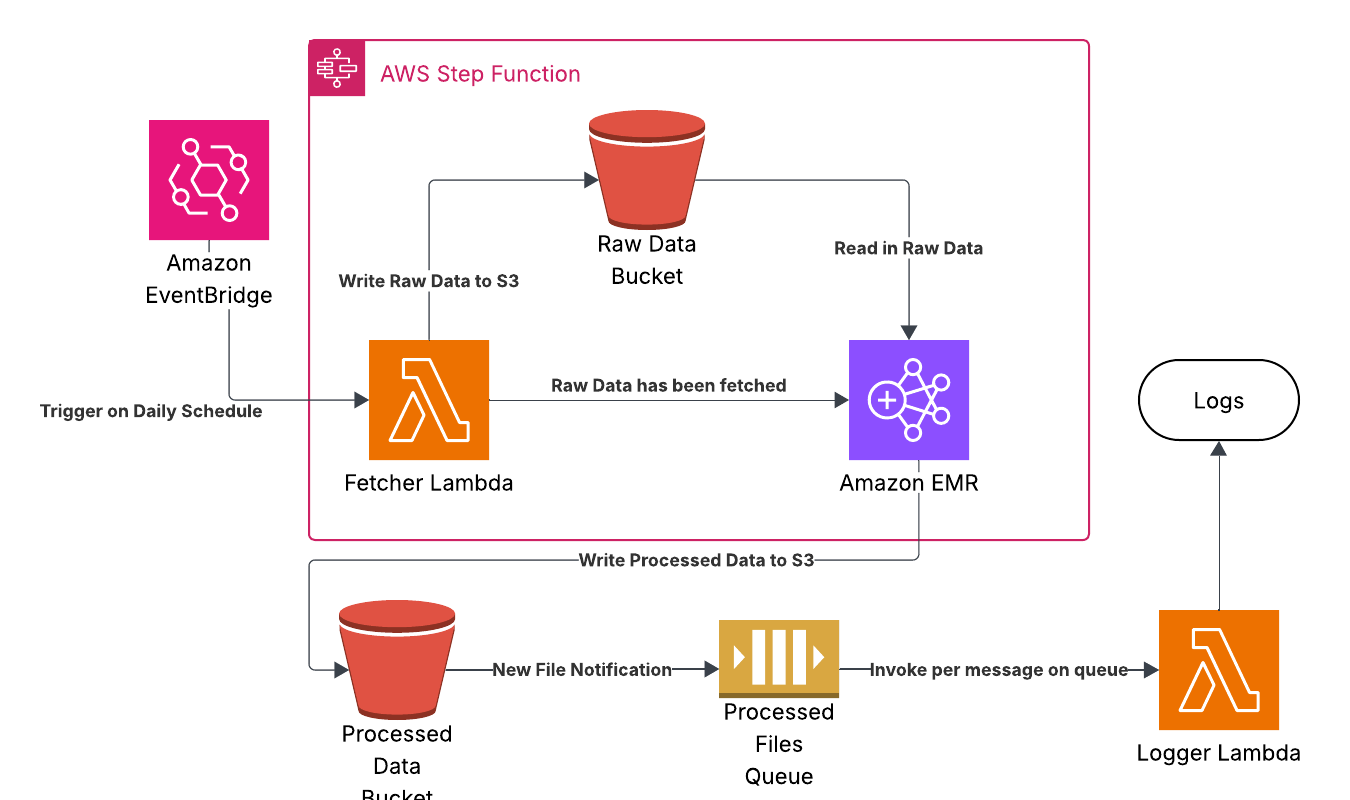
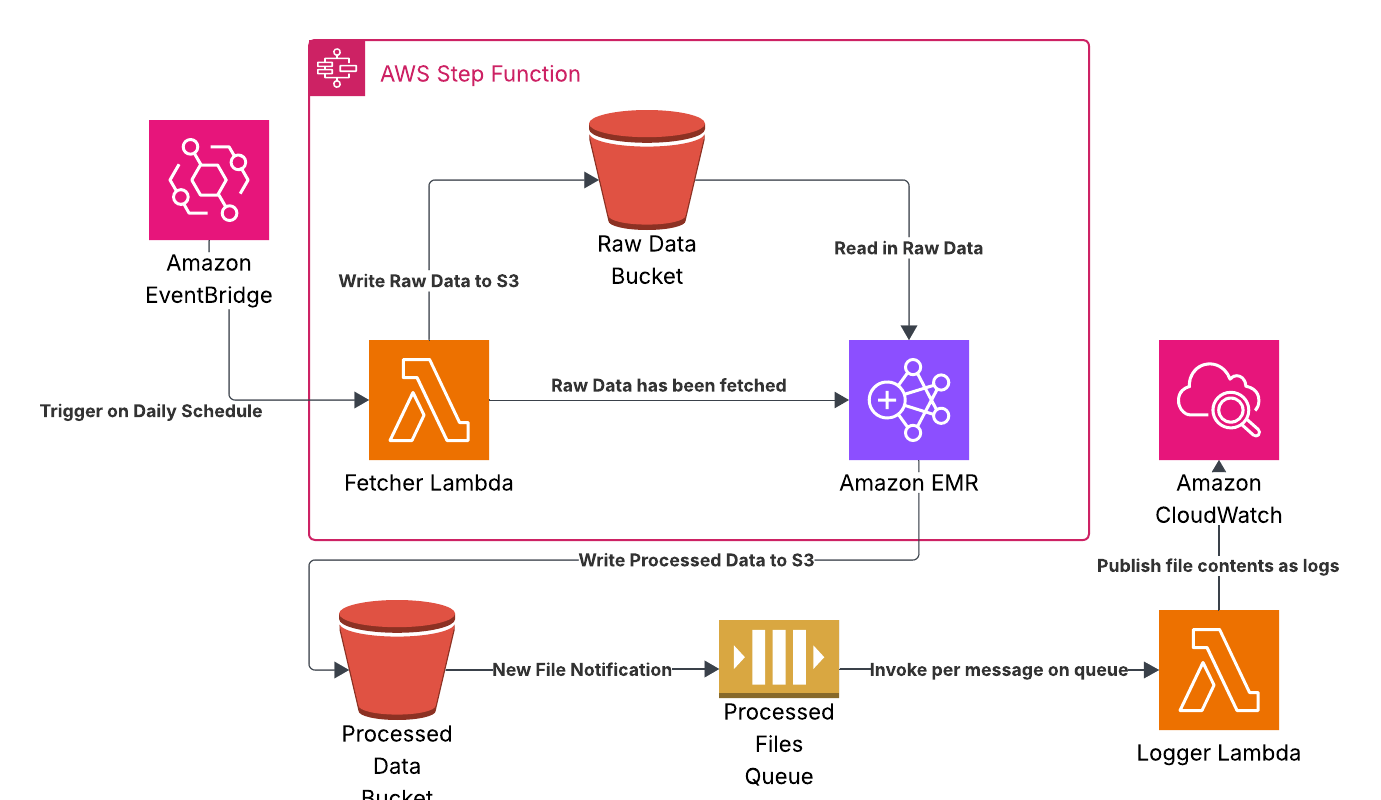
Documentation (#14)
* Check in README.md and Architecture diagram

* Adding comments

diff --git a/lambdas/src/file_downloader.py b/lambdas/src/file_downloader.py
@@ -24,10 +24,10 @@ def download_bls_data(directory_url: str, local_folder: str) -> int:
     """
     logging.info(f"Starting download from: {directory_url}")
 
-    # 1. Create the local directory if it doesn't exist
+    # Create the local directory if it doesn't exist
     os.makedirs(local_folder, exist_ok=True)
 
-    # 2. Fetch and parse the directory HTML
+    # Fetch and parse the directory HTML
     try:
         response = requests.get(directory_url, timeout=30, headers=headers)
         response.raise_for_status()  # Raise an exception for 4xx or 5xx status codes
@@ -39,7 +39,7 @@ def download_bls_data(directory_url: str, local_folder: str) -> int:
     file_links = []
     base_netloc = urlparse(directory_url).netloc
     
-    # 3. Extract file links
+    # Extract file links
     for link in soup.find_all('a'):
         href = link.get('href')
         
@@ -59,7 +59,7 @@ def download_bls_data(directory_url: str, local_folder: str) -> int:
 
     logging.info(f"Found {len(file_links)} files. Starting download...")
     
-    # 4. Download all files using multithreading for efficiency
+    # Download all files using multithreading for efficiency
     with ThreadPoolExecutor(max_workers=5) as executor:
         futures = [executor.submit(download_single_file, url, local_folder) for url in file_links]
         
@@ -70,7 +70,15 @@ def download_bls_data(directory_url: str, local_folder: str) -> int:
     return len(file_links)
 
 def download_single_file(file_url, local_dir, params: dict = {}, override_filename: str | None = None):
-    """Internal function to download a single file with streaming."""
+    """
+    Internal function to download a single file with streaming.
+
+    :param file_url The URL of the file to download
+    :param local_dir The path to the directory to store the file in
+    :params params Any query parameters used in the fetch request for the file
+    :params override_filename Optional value for if the caller wants to specify a name for the file
+    :return The path to the file on the local filesystem
+    """
     try:
         # Get filename from the URL path
         if not override_filename:
@@ -106,8 +114,9 @@ def download_population_data(url: str, local_folder: str, params: dict) -> int:
     :param local_folder: The local directory to save the files to.
     :return the count of population files downloaded (should be 1)
     """
-    # 1. Create the local directory if it doesn't exist
+    # Create the local directory if it doesn't exist
     os.makedirs(local_folder, exist_ok=True)
+    
     try:
         download_single_file(file_url=url,local_dir=local_folder, params=params, override_filename='population.json')
         logging.info(f"--- Download complete! File saved in: {os.path.abspath(local_folder)} ---\n")

diff --git a/lambdas/src/s3_utils.py b/lambdas/src/s3_utils.py
@@ -96,7 +96,7 @@ def synchronize_with_s3(source_dir, bucket_name, region='us-east-1'):
         logging.warning("No files found locally or in S3. Exiting sync.")
         return updated_or_added_count, deleted_count
 
-    # 1. Determine files to upload (Additions or Modifications)
+    # Determine files to upload (Additions or Modifications)
     files_to_upload = []
     for s3_key, local_md5 in local_manifest.items():
         # A file is new if its key is not in the S3 manifest
@@ -107,7 +107,7 @@ def synchronize_with_s3(source_dir, bucket_name, region='us-east-1'):
             logging.debug(f"{status}: {s3_key}")
         # Else: MD5 matches ETag, file is in sync, skip (efficiency achieved)
 
-    # 2. Determine objects to delete (Local Deletions)
+    # Determine objects to delete (Local Deletions)
     files_to_delete = []
     for s3_key in s3_manifest.keys():
         # An object needs deletion if its key is in S3 but not in the local manifest
@@ -116,9 +116,7 @@ def synchronize_with_s3(source_dir, bucket_name, region='us-east-1'):
             logging.debug(f"DELETED: {s3_key}")
 
 
-    # --- EXECUTE ACTIONS ---
-
-    # A. Execute Uploads/Updates
+    # Perform Uploads/Updates
     if files_to_upload:
         logging.info(f"--- UPLOADING/UPDATING {len(files_to_upload)} files ---")
         for s3_key in files_to_upload:
@@ -136,7 +134,7 @@ def synchronize_with_s3(source_dir, bucket_name, region='us-east-1'):
     else:
         logging.info("No local files detected as new or modified. Skipping uploads.")
         
-    # B. Execute Deletions
+    # Perform Deletions
     if files_to_delete:
         logging.info(f"--- DELETING {len(files_to_delete)} objects ---")
         

diff --git a/lambdas/src/rearc_fetcher.py b/lambdas/src/rearc_fetcher.py
@@ -6,9 +6,6 @@ from file_downloader import download_bls_data, download_population_data # to run
 # Set up logging for detailed output
 logging.basicConfig(level=logging.INFO, format='%(asctime)s - %(levelname)s - %(message)s')
 
-def sanitize_data() -> str:
-    return 'sanitized'
-
 def lambda_handler(event, context):
     """
     Retrieves a file from a specified URL and uploads it to an S3 bucket.
@@ -30,20 +27,20 @@ def lambda_handler(event, context):
     }
 
     try:
-        # 1. Retrieve the BLS files
+        # Retrieve the BLS files
         bls_downloaded_count = download_bls_data(directory_url=bls_dir_url, local_folder='/tmp/bls-data')
 
-        # 2. Retrieve the population data json file
+        # Retrieve the population data json file
         population_data_count = download_population_data(url=population_url, local_folder = '/tmp/population', params=population_params)
 
-        # 3. Synchronize BLS Data with S3
+        # Synchronize BLS Data with S3
         if bls_downloaded_count > 0:
             bls_files_updated_or_added, bls_files_deleted = synchronize_with_s3('/tmp/bls-data', s3_bucket_name)
         else:
             logging.error('0 BLS Files were downloaded, cannot perform synchroniziation with s3 bucket')
             raise Exception('0 BLS Files were downloaded, cannot perform synchroniziation with s3 bucket')
 
-        # 4. Synchronize Population Data with S3
+        # Synchronize Population Data with S3
         if population_data_count > 0:
             population_updated_or_added, population_deleted = synchronize_with_s3('/tmp/population', s3_bucket_name)
         else:

diff --git a/lambdas/src/test_rearc_fetcher.py b/lambdas/src/test_rearc_fetcher.py
@@ -1,5 +1,7 @@
 import pytest
-from rearc_fetcher import sanitize_data
 
-def test_sanitize():
-    assert sanitize_data() == "sanitized"
+
+# TODO Add Tests for Fetcher Lambda
+
+def test_lambda():
+    assert True

diff --git a/lambdas/src/test_file_downloader.py b/lambdas/src/test_file_downloader.py
@@ -1,0 +1,6 @@
+import pytest
+
+# TODO Add tests for File Downloader
+
+def test_file_downloader():
+    assert True

diff --git a/lambdas/src/test_rearc_logger.py b/lambdas/src/test_rearc_logger.py
@@ -1,2 +1,6 @@
 import pytest
 
+# TODO Add Logger Tests
+
+def test_lambda():
+    assert True

diff --git a/lambdas/src/test_s3_utils.py b/lambdas/src/test_s3_utils.py
@@ -1,0 +1,4 @@
+import pytest
+
+def test_s3_utils():
+    assert True

diff --git a/README.md b/README.md
@@ -1,10 +1,36 @@
 # Rearc Data Quest
 
-## Introduction
+## Overview
+Here lies the implementation for the Rearc Data Quest Project. The instructions were simple, to fetch two different datasets on a daily basis (Extract), synchronize the datasets with data in S3, perform some tranformations on the data (Transform), and write three datasets to a results S3 Bucket. The result datasets are processed on an SQS Queue and their contents are then logged out.
 
 ## Goals
+The goal of this project are to showcase my skills in data engineering by implementing a full end-to-end data pipeline, deployed in the cloud. 
 
-## How to run
+## Architecture
+The architecture for this project starts here in the Github Repository. Here is where we manage our source code, gate deploys with tests, and manage and deploy our Infrastructure as Code (Terraform). The terraform code for this project resides in the `cicd/terraform` folder and is seperated by AWS product.
+
+### AWS Cloud Architecture
+The AWS architecture is managed fully using Terraform. This involves an EventBridge Scheduler that calls a Step Function on a daily basis at 08:00. The Step Function while not required for the exercise is meant to show how this framework could be scaled to include more tasks in its data orchestration. For now, it has two steps. 
+
+The first task is to invoke the Fetcher Lambda. The Fetcher downloads files from a Bureau of Labor Statistics repository and population data from a public API. These files are then synchronized with a raw data bucket in S3, only updating or adding files if necesary. The synchronization is performed by taking an MD5 hash of the fetched files and comparing them to the ETag of the files in S3 to verify if they have changed. Once the raw data files have been written to the raw data bucket, the next task in our Step Function is to perform transformations on the raw data to build the three required result datasets and writes them to our processed data bucket as JSON. At this point the batched processing nature of our architecture is complete and we move on to a more event based architecture. 
+
+The event based architecture is performed by attaching an S3 Bucket notification to our processed data that publishes to an SQS Queue. Each file written to the processed data bucket gets one message on the queue and its message on the queue triggers one invocation of the Logger Lambda. The Logger Lambda consumes the SQS Message containing S3 details about the file, reads in the file and logs out the data to CloudWatch.
+
+![AWS Cloud Architecure](./Rearc%20Data%20Quest%20Architecture.png)
+
+#### Github Actions Architecture
+Our Github actions are designed to be a simple representation of how a production project might look and run. It involves gating releases based on conditions, in this case being the passing of unit tests. Our actions pipeline also handles the deployment of Terraform for our AWS Architecture. On pull requests a "plan only" run is triggered via Hashicorp's API. On commits to `main` a Terraform "plan and apply" is triggered via Hashicorps API that requires manually running apply to actually create, destroy, or update our AWS architecture. Feel free to view the YAML files in .github/workflows to see how this works.
 
 ## Testing
+This project uses automated testing ran via GitHub Actions that gates deploys and informs creators of pull requests if their changes violate any test conditions. Ordinarily, I would strive for near 100% test coverage but in the interest of time I have decided to leave it out. I have included basic test stubs and included them in the Github Actions pipeline to display how they would work if implemented.
 
+#### Testing Scala Spark Job
+*NOTE: Scala and Spark must be preinstalled*
+Tests are ran by starting in the `rearc-spark` directory and running `sbt test`
+
+#### Testing Python Lambdas
+*NOTE: Python 3.13 must be installed, as well as any dependencies mention in requirements.txt*
+Start in the `lambdas` folder and run `pytest`
+
+## Future Enhancements 
+While I know this is just a project to show off my skills, I would like to note that due to constraints on time there are missing features that I believe would be necessary for a true Production Grade project. The first and probably most important to me is the lack of test coverage. The code in this project could be easily broken down into smaller functions which would allow for testing each part in a logical way, achieving near 100% test coverage. I would then use this test coverage score to gate merging of pull requests on a condition that they satisfy a certain test coverage percentage. The next feature would be more configurability overall. Some examples being, the Lambdas currently do not use their event variables but they could be altered to allow the ability to pass different search filters to the Fetcher Lambda or change the delivery method of the the Logger Lambda uses to display its results. 
